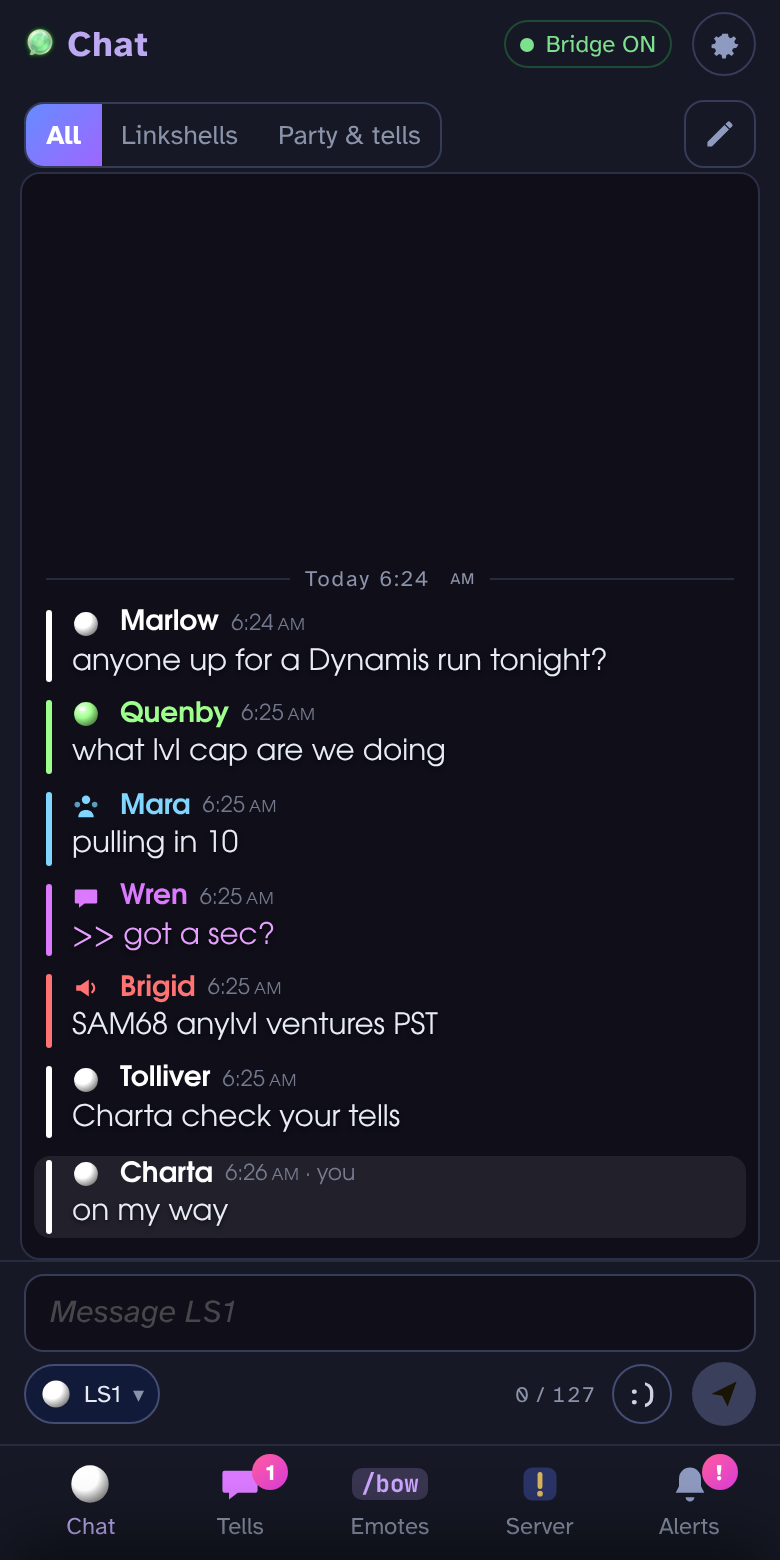
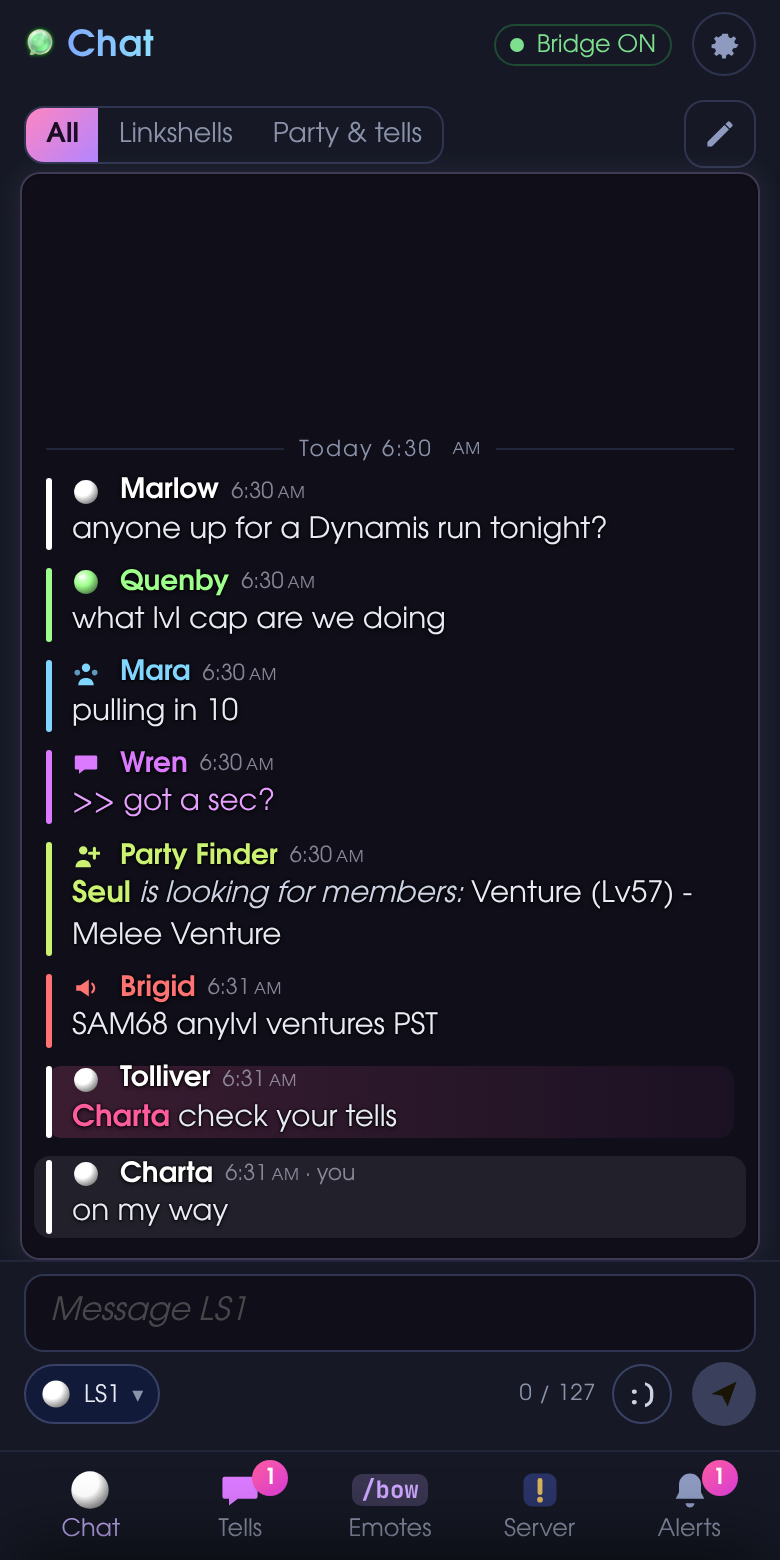
1.1.1: YunaUI style refined from YunaUI 1.1.52 (Party Finder color, timestamp color, panel edge glow, Yuna pink-to-violet, font everywhere); credit says Yunas
Claude-Session: https://claude.ai/code/session_01C54PoDV97t3aX5JPZhdwcf

diff --git a/bridge/index.html b/bridge/index.html
@@ -401,34 +401,45 @@ body.skin-onyx .pane .inner{gap:7px}
 body.skin-onyx.compact .pane .inner{gap:2px}
 body.skin-onyx .ln{text-shadow:1px 1px 0 #000}
 body.skin-onyx .big{font-weight:700;letter-spacing:.3px}
-/* YunaUI style: an unofficial look inspired by YunaUI by YunasXI. Colors and sizes only; none of its code or images.
+/* YunaUI style: an unofficial look inspired by YunaUI by Yunas. Colors and sizes only; none of its code or images.
    Near-black with a violet tint, periwinkle accents, a pink highlight for mentions. */
-body.skin-yuna{--bg:#161925;--pane:#100f19;--raise:#1b1f30;--chip:#2D3245;--line:#262b3d;--edge:#363c58;--edge2:#454c72;
-  --text:#E8EBF4;--soft:#cdd2e4;--mute:#8B93AA;--gold:#7D8EFF;--ink:#0e0b14;--serif:var(--sans);
+body.skin-yuna{--bg:#161925;--pane:#100f19;--raise:#1b1f30;--chip:#2D3245;--line:#22263a;--edge:#2f3550;--edge2:#3a4166;
+  --text:#E8EBF4;--soft:#cdd2e4;--mute:#8B93AA;--gold:#7D8EFF;--ink:#1a0d24;--serif:var(--sans);
   --vent:#9EEBC7;--sys:#FFF2D1;--bad:#FF59A6;--badbg:#2a1226;--badedge:#5a2a50}
-body.skin-yuna .pane{border:1px solid #2a2f45;border-radius:10px;box-shadow:none}
+/* His AvantGarde-style font is used everywhere in YunaUI, so it is here too (unless Font is set to Classic). */
+body.skin-yuna.font-readable{--sans:'TeX Gyre Adventor','Atkinson Hyperlegible',system-ui,-apple-system,sans-serif}
+/* The chat panel: near-black with a hint of violet, a fine lavender edge with a soft glow (his "Panel border"). */
+body.skin-yuna .pane{border:1px solid rgba(189,168,242,.28);border-radius:10px;box-shadow:0 0 14px rgba(189,168,242,.10),inset 0 0 0 1px rgba(14,11,20,.6)}
 body.skin-yuna .pane .inner{gap:9px}
 body.skin-yuna.compact .pane .inner{gap:3px}
 body.skin-yuna .rail{width:3px}
-body.skin-yuna .rhead .t,body.skin-yuna .cl .t{font-size:.78em;opacity:.8}
+/* Times in their own soft lilac grey, so the words stand out. */
+body.skin-yuna .rhead .t,body.skin-yuna .cl .t{color:#9E99AD;opacity:.85}
+body.skin-yuna .rhead .t{font-size:.78em}
 body.skin-yuna .cl .t{font-size:10.5px}
-body.skin-yuna.font-readable .ln,body.skin-yuna.font-readable .rhead,body.skin-yuna.font-readable .cl .ln{font-family:'TeX Gyre Adventor',var(--sans)}
-body.skin-yuna .ln{text-shadow:0 1px 2px rgba(0,0,0,.65)}
-body.skin-yuna .big{font-weight:700;letter-spacing:.4px;color:#BDA8F2}
+body.skin-yuna.font-readable .ln{font-size:calc(var(--fs)*.95)}
+/* A thin dark outline round the letters, as his chat draws it. */
+body.skin-yuna .ln,body.skin-yuna .rhead b{text-shadow:0 0 1px rgba(0,0,0,.9),0 0 1px rgba(0,0,0,.9),0 1px 2px rgba(0,0,0,.6)}
+/* Titles flow from periwinkle to ice blue, like his window titles. */
+body.skin-yuna .top .big{font-weight:700;letter-spacing:.4px;background:linear-gradient(90deg,#7D8EFF,#8CE0FF);-webkit-background-clip:text;background-clip:text;color:transparent}
+body.skin-yuna .bar .mid b{color:#E8EBF4}
 body.skin-yuna .sect{color:#BDA8F2;letter-spacing:1.2px}
+/* Mentions get the pink to magenta of his HP bars. */
 body.skin-yuna .mention{background:linear-gradient(90deg,rgba(255,92,158,.18),rgba(219,61,219,.05))}
 body.skin-yuna mark.mw{color:#FF5C9E}
-body.skin-yuna .seg button.on,body.skin-yuna .send.on{background:linear-gradient(135deg,#668CFF,#9E66FF);color:#fff}
+/* Selected buttons and Send use his "Yuna" theme: pink to violet, dark letters. */
+body.skin-yuna .seg button.on,body.skin-yuna .segs button.on,body.skin-yuna .send.on{background:linear-gradient(135deg,#FF85C2,#B385FF);color:#1a0d24}
 body.skin-yuna .tabbar button.on{color:#BDA8F2}
 body.skin-yuna .tabbar .bdg{background:linear-gradient(135deg,#FF5C9E,#DB3DDB);color:#fff}
-body.skin-yuna .chipb.on{border-color:#7D8EFF}
-body.skin-yuna .comp textarea,body.skin-yuna .comp input{border-radius:10px;background:#100f19}
-body.skin-yuna .emtiles button{background:#1b1f30;border-color:#363c58;box-shadow:none}
-body.skin-yuna .vcard{background:#15131f;border-color:#3b3470}
-body.skin-yuna .vzone{background:#1b1f30}
-body.skin-yuna #toast{background:#1b1f30;border-color:#454c72}
-body.skin-yuna .chips button{border-color:#454c72}
-body.skin-yuna.font-readable .ln{font-size:calc(var(--fs)*.95)}
+body.skin-yuna .chipb.on{border-color:#BDA8F2}
+body.skin-yuna .comp textarea,body.skin-yuna .comp input{border-radius:10px;background:#100f19;border-color:#2f3550}
+body.skin-yuna .comp textarea:focus,body.skin-yuna .comp input:focus{border-color:#BDA8F2;box-shadow:0 0 10px rgba(189,168,242,.18)}
+body.skin-yuna .emtiles button{background:#1b1f30;border-color:#2f3550;box-shadow:none}
+body.skin-yuna .vcard{background:#15131f;border-color:rgba(189,168,242,.3)}
+body.skin-yuna .vzone{background:#1b1f30;line-height:1.35}
+body.skin-yuna{line-height:1.3}
+body.skin-yuna #toast{background:#1b1f30;border-color:#3a4166}
+body.skin-yuna .chips button{border-color:#3a4166}
 @keyframes yglow{from{opacity:0;transform:translateY(6px);filter:drop-shadow(0 0 7px rgba(189,168,242,.9))}to{opacity:1;transform:none;filter:none}}
 body.skin-yuna .fresh{animation:yglow .5s ease-out}
 
@@ -774,7 +785,7 @@ function importPrefs(file) {
 }
 var DEFAULT_COLORS = {ls1: "#7ee08f", ls2: "#06ED00", party: "#7fb2ff", tell: "#ff8fd0", say: "#dfe5f5", shout: "#ff9a5c", unity: "#e8c35c", yell: "#c98a5c", emote: "#b9a6ff", finder: "#8fd0ff"};
 // A skin can bring its own channel colors. Colors you picked yourself win over any skin's.
-var SKIN_COLORS = {yuna: {ls1: "#FFFFFF", ls2: "#9EFF8C", party: "#80D6FF", tell: "#DB7AFF", say: "#E8EBF4", shout: "#FF7373", yell: "#FF9973", unity: "#F2E08C", emote: "#CCA6FF", finder: "#8FD6F5"}};
+var SKIN_COLORS = {yuna: {ls1: "#FFFFFF", ls2: "#9EFF8C", party: "#80D6FF", tell: "#DB7AFF", say: "#E8EBF4", shout: "#FF7373", yell: "#FF9973", unity: "#F2E08C", emote: "#CCA6FF", finder: "#CCF273"}};
 function colorOf(c) { return (S.colors && S.colors[c]) || ((SKIN_COLORS[S.skin] || {})[c]) || DEFAULT_COLORS[c]; }
 function applyColors() {
   CHAT_CH.forEach(function (c) { document.documentElement.style.setProperty("--" + c, colorOf(c)); });
@@ -2004,7 +2015,7 @@ function renderSettings() {
     srow("Clear saved tells", "", '<button class="dangerbtn" data-act="clear">Clear</button>') +
     '<div class="sect">APPEARANCE</div>' +
     srow("Skin", "", segs("skin", [["midnight", "Midnight"], ["classic", "Classic"], ["onyx", "Onyx"], ["yuna", "YunaUI style"]], S.skin || "midnight")) +
-    (S.skin === "yuna" ? '<div class="skinnote">Inspired by YunaUI by YunasXI. This is an unofficial look, not made or supported by YunasXI. If something looks wrong, tell Charta, not YunasXI.</div>' : "") +
+    (S.skin === "yuna" ? '<div class="skinnote">Inspired by YunaUI by Yunas. This is an unofficial look, not made or supported by Yunas. If something looks wrong, tell Charta, not Yunas.</div>' : "") +
     srow("Font", "", segs("font", [["readable", "Readable"], ["classic", "Classic"]], S.font || "readable")) +
     srow("Density", "", segs("density", [["comfortable", "Comfortable"], ["compact", "Compact"]], S.density)) +
     srow("Text size", "", segs("size", [["S", "S"], ["M", "M"], ["L", "L"]], S.size)) +
@@ -2020,7 +2031,7 @@ function renderSettings() {
     '<div class="sect">ABOUT</div>' +
     srow("phonechatXI " + esc(status.version || ""), "Made by Charta. Reviewed and approved by CatsEyeXI staff.", "") +
     srow("Build", esc(status.build || "Unknown"), "") +
-    srow("YunaUI style skin", "Inspired by YunaUI by YunasXI (github.com/YunasXI/yunaui). Unofficial: not made, endorsed or supported by YunasXI. Uses its look only, no YunaUI code or images. Chat text in this skin uses TeX Gyre Adventor (GUST Font License).", "") +
+    srow("YunaUI style skin", "Inspired by YunaUI by Yunas (github.com/YunasXI/yunaui). Unofficial: not made, endorsed or supported by Yunas. Uses its look only, no YunaUI code or images. Chat text in this skin uses TeX Gyre Adventor (GUST Font License).", "") +
     srow("Your data", "Your chat stays on your home network. The only outside page it opens is BG-Wiki, when you tap an item.", "") +
     srow("Something wrong?", "Copies details for a bug report, without your phone link or any chat.", '<button class="linkbtn" data-act="debug">Copy debug info</button>') +
     '<div style="height:28px"></div>';

diff --git a/CHANGELOG.md b/CHANGELOG.md
@@ -32,7 +32,7 @@ Fixes and looks only. It reads the same lines as 1.1.0, except one it now reads 
 - The name field shows a made-up example (faded, in italics), so it no longer looks already filled in.
 - The :) emoticons are yours to set ("Your emoticons", separated by commas, up to 20). The field starts with the defaults (^^, ^_^, :), ;), :D, :P, XD and <3), so you can add to them, and "Reset to defaults" brings them back. They open as a grid with a red × to close.
 - An emoji with no text swap gets a hint above the box ("🤔" not valid, won't appear in game), instead of quietly disappearing from the line.
-- A fourth skin, "YunaUI style": near-black with a violet tint, periwinkle accents and a pink highlight for mentions, with its own channel colors (colors you picked yourself still win, and Reset colors goes back to the skin's). Chat text uses TeX Gyre Adventor when Font is Readable. It's an unofficial look inspired by YunaUI by YunasXI, used with his OK. It copies the look only and uses none of YunaUI's code or images, and Settings says so.
+- A fourth skin, "YunaUI style": near-black with a violet tint, periwinkle and lavender accents, his pink-to-violet "Yuna" gradient on selected buttons and a pink highlight for mentions, with its own channel colors (colors you picked yourself still win, and Reset colors goes back to the skin's). It uses TeX Gyre Adventor, his AvantGarde-style font, when Font is Readable. It's an unofficial look inspired by YunaUI by Yunas, used with his OK. It copies the look only and uses none of YunaUI's code or images, and Settings says so.
 - The Party Finder filter is now "PF", with a "looking for members" icon.
 - About is shorter and up to date. Settings now shows a Build ID, and Copy debug info includes it.
 - Replacing your phone link is explained step by step in the `/pchat` window, on the setup page, in Settings, on the "link was replaced" banner and in the README: scan the new QR, check chat connects, then remove the old Home Screen shortcut and add the new link. Old links stop working. How links are checked is unchanged.

diff --git a/README.md b/README.md
@@ -225,6 +225,6 @@ phonechatXI is for chat: reading it on your phone and typing messages without fi
 - Built by Charta with Claude.
 - `bridge/qrcode.js` is [qrcode-generator](https://github.com/kazuhikoarase/qrcode-generator) by Kazuhiko Arase (MIT).
 - The in-game QR code uses [luaqrcode](https://github.com/speedata/luaqrcode) by speedata (BSD-3), in `addon/phonechat/qrencode.lua`.
-- The YunaUI style skin is an unofficial look inspired by [YunaUI](https://github.com/YunasXI/yunaui) by YunasXI, used with his OK. It copies the look only (colors and sizes) and uses none of YunaUI's code or images. It isn't made, endorsed or supported by YunasXI, so please don't take problems with it to him. Use the bug reports or the Discord thread here instead.
+- The YunaUI style skin is an unofficial look inspired by [YunaUI](https://github.com/YunasXI/yunaui) by Yunas, used with his OK. It copies the look only (colors and sizes) and uses none of YunaUI's code or images. It isn't made, endorsed or supported by Yunas, so please don't take problems with it to him. Use the bug reports or the Discord thread here instead.
 - Fonts: Cinzel, Atkinson Hyperlegible and JetBrains Mono on the phone page, and Cormorant SC in the logo image, all under the SIL Open Font License. TeX Gyre Adventor, used for chat text in the YunaUI style skin, is under the GUST Font License and shipped unchanged. License files for the bundled fonts are in `bridge/fonts/`.
 - The server command list and the game mode icons come from the [CatsEyeXI Commands](https://www.bg-wiki.com/ffxi/CatsEyeXI_Commands) page on BG-Wiki (as of October 2026).
